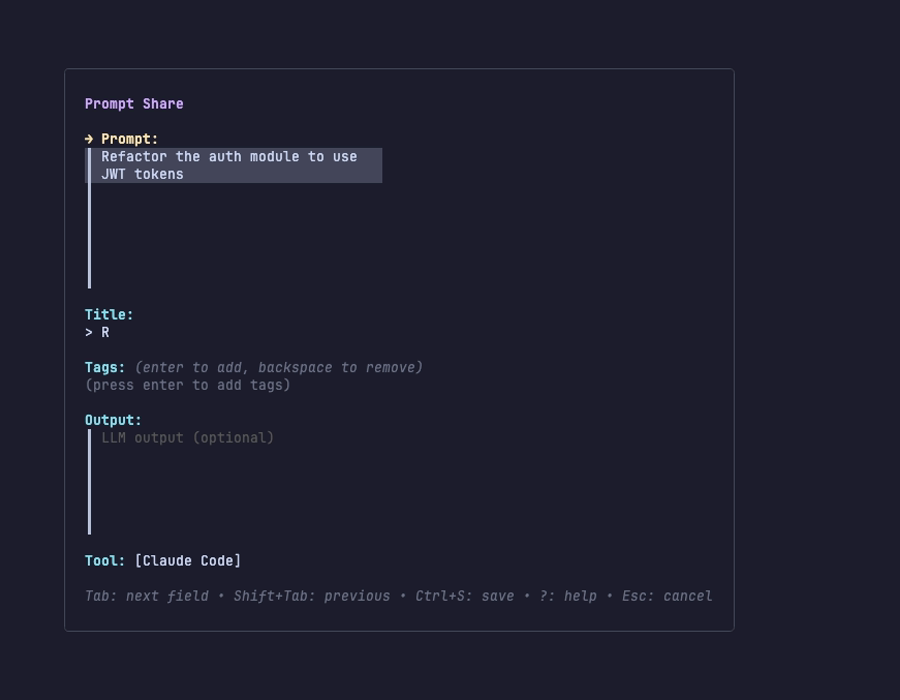
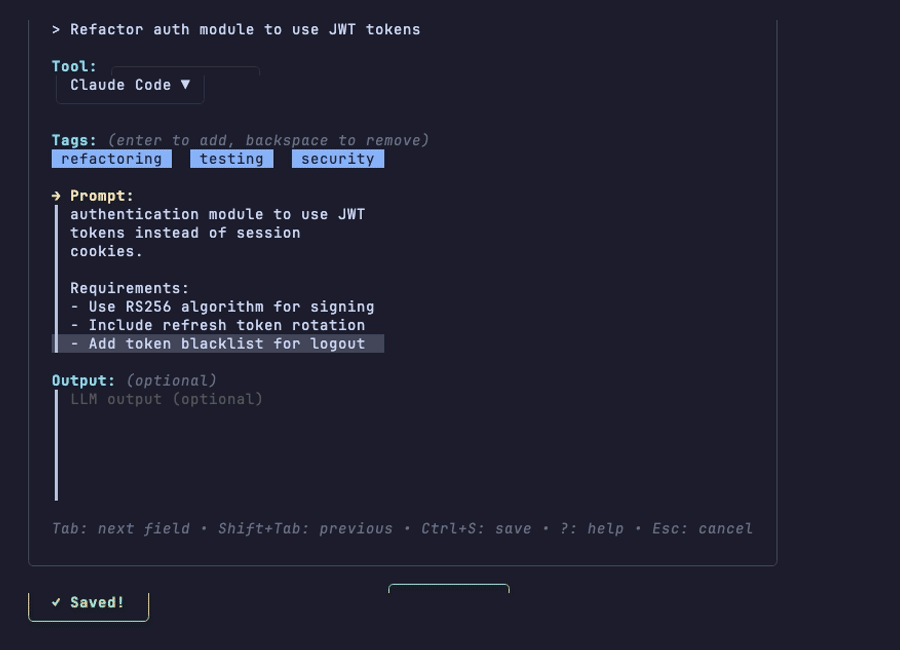
fix: Correct TUI field order and re-record demo
- Fix field order to match design: Title → Tool → Tags → Prompt → Output
- Update focusIndex mapping for new order
- Start with Title field focused (not Prompt)
- Add VHS demo.tape for reproducible recordings
- Regenerate demo.gif and demo.png with correct layout
- Update .gitignore for binary and learning/

diff --git a/internal/tui/app.go b/internal/tui/app.go
@@ -63,7 +63,7 @@ type Model struct {
 	output     textarea.Model
 	toolSelect components.Dropdown
 
-	focusIndex int  // 0=prompt, 1=title, 2=tags, 3=output, 4=tool
+	focusIndex int  // 0=title, 1=tool, 2=tags, 3=prompt, 4=output
 	showHelp   bool
 	showToast  bool
 	toastMsg   string
@@ -77,18 +77,18 @@ type Model struct {
 }
 
 func New(cfg *config.Config, tool string, stay bool) Model {
+	// initialize title input (focused first)
+	titleInput := textinput.New()
+	titleInput.Placeholder = "Brief title for your prompt"
+	titleInput.CharLimit = 100
+	titleInput.Focus()
+
 	// initialize prompt textarea
 	promptTA := textarea.New()
 	promptTA.Placeholder = "Enter your prompt here..."
 	promptTA.CharLimit = 10000
 	promptTA.SetHeight(8)
 	promptTA.ShowLineNumbers = false
-	promptTA.Focus()
-
-	// initialize title input
-	titleInput := textinput.New()
-	titleInput.Placeholder = "Auto-generated from prompt"
-	titleInput.CharLimit = 100
 
 	// initialize tags input
 	tagsInput := components.NewTagInput(cfg.FavoriteTags)
@@ -218,7 +218,7 @@ func (m Model) Update(msg tea.Msg) (tea.Model, tea.Cmd) {
 			return m, m.saveAndExit()
 
 		case "/", "ctrl+t":
-			m.setFocus(4)
+			m.setFocus(1) // tool selector
 			return m, nil
 
 		case "tab":
@@ -233,20 +233,14 @@ func (m Model) Update(msg tea.Msg) (tea.Model, tea.Cmd) {
 
 	// update focused component
 	switch m.focusIndex {
-	case 0: // prompt
-		var cmd tea.Cmd
-		m.prompt, cmd = m.prompt.Update(msg)
-		cmds = append(cmds, cmd)
-
-		// auto-generate title from prompt
-		if m.title.Value() == "" && m.prompt.Value() != "" {
-			autoTitle := storage.GenerateTitle(m.prompt.Value())
-			m.title.SetValue(autoTitle)
-		}
-
-	case 1: // title
+	case 0: // title
 		var cmd tea.Cmd
 		m.title, cmd = m.title.Update(msg)
+		cmds = append(cmds, cmd)
+
+	case 1: // tool selector
+		var cmd tea.Cmd
+		m.toolSelect, cmd = m.toolSelect.Update(msg)
 		cmds = append(cmds, cmd)
 
 	case 2: // tags
@@ -254,14 +248,14 @@ func (m Model) Update(msg tea.Msg) (tea.Model, tea.Cmd) {
 		m.tags, cmd = m.tags.Update(msg)
 		cmds = append(cmds, cmd)
 
-	case 3: // output
+	case 3: // prompt
 		var cmd tea.Cmd
-		m.output, cmd = m.output.Update(msg)
+		m.prompt, cmd = m.prompt.Update(msg)
 		cmds = append(cmds, cmd)
 
-	case 4: // tool selector
+	case 4: // output
 		var cmd tea.Cmd
-		m.toolSelect, cmd = m.toolSelect.Update(msg)
+		m.output, cmd = m.output.Update(msg)
 		cmds = append(cmds, cmd)
 	}
 
@@ -273,27 +267,29 @@ func (m Model) View() string {
 
 	// header
 	b.WriteString(titleStyle.Render("Prompt Share"))
+	b.WriteString("\n")
+	b.WriteString(helpStyle.Render(fmt.Sprintf("Saving to %s/", m.config.OutputDir)))
 	b.WriteString("\n\n")
 
-	// prompt field
-	label := labelStyle.Render("Prompt:")
+	// title field (index 0)
+	label := labelStyle.Render("Title:")
 	if m.focusIndex == 0 {
-		label = focusedLabelStyle.Render("→ Prompt:")
-	}
-	b.WriteString(label + "\n")
-	b.WriteString(m.prompt.View())
-	b.WriteString("\n\n")
-
-	// title field
-	label = labelStyle.Render("Title:")
-	if m.focusIndex == 1 {
 		label = focusedLabelStyle.Render("→ Title:")
 	}
 	b.WriteString(label + "\n")
 	b.WriteString(m.title.View())
 	b.WriteString("\n\n")
 
-	// tags field
+	// tool selector (index 1)
+	label = labelStyle.Render("Tool:")
+	if m.focusIndex == 1 {
+		label = focusedLabelStyle.Render("→ Tool:")
+	}
+	b.WriteString(label + " ")
+	b.WriteString(m.toolSelect.View())
+	b.WriteString("\n\n")
+
+	// tags field (index 2)
 	label = labelStyle.Render("Tags:")
 	if m.focusIndex == 2 {
 		label = focusedLabelStyle.Render("→ Tags:")
@@ -304,22 +300,24 @@ func (m Model) View() string {
 	b.WriteString(m.tags.View())
 	b.WriteString("\n\n")
 
-	// output field
-	label = labelStyle.Render("Output:")
+	// prompt field (index 3)
+	label = labelStyle.Render("Prompt:")
 	if m.focusIndex == 3 {
-		label = focusedLabelStyle.Render("→ Output:")
+		label = focusedLabelStyle.Render("→ Prompt:")
 	}
 	b.WriteString(label + "\n")
-	b.WriteString(m.output.View())
+	b.WriteString(m.prompt.View())
 	b.WriteString("\n\n")
 
-	// tool selector
-	label = labelStyle.Render("Tool:")
+	// output field (index 4)
+	label = labelStyle.Render("Output:")
 	if m.focusIndex == 4 {
-		label = focusedLabelStyle.Render("→ Tool:")
+		label = focusedLabelStyle.Render("→ Output:")
 	}
 	b.WriteString(label + " ")
-	b.WriteString(m.toolSelect.View())
+	b.WriteString(helpStyle.Render("(optional)"))
+	b.WriteString("\n")
+	b.WriteString(m.output.View())
 	b.WriteString("\n\n")
 
 	// help text
@@ -375,15 +373,15 @@ func (m *Model) setFocus(index int) {
 	// blur current
 	switch m.focusIndex {
 	case 0:
-		m.prompt.Blur()
-	case 1:
 		m.title.Blur()
+	case 1:
+		m.toolSelect.Blur()
 	case 2:
 		m.tags.Blur()
 	case 3:
-		m.output.Blur()
+		m.prompt.Blur()
 	case 4:
-		m.toolSelect.Blur()
+		m.output.Blur()
 	}
 
 	// set new focus
@@ -392,15 +390,15 @@ func (m *Model) setFocus(index int) {
 	// focus new
 	switch m.focusIndex {
 	case 0:
-		m.prompt.Focus()
-	case 1:
 		m.title.Focus()
+	case 1:
+		m.toolSelect.Focus()
 	case 2:
 		m.tags.Focus()
 	case 3:
-		m.output.Focus()
+		m.prompt.Focus()
 	case 4:
-		m.toolSelect.Focus()
+		m.output.Focus()
 	}
 }
 
